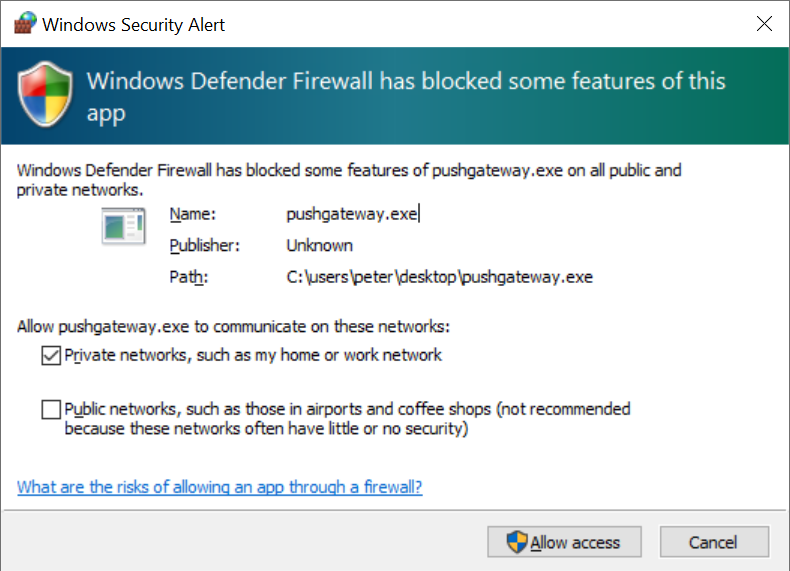
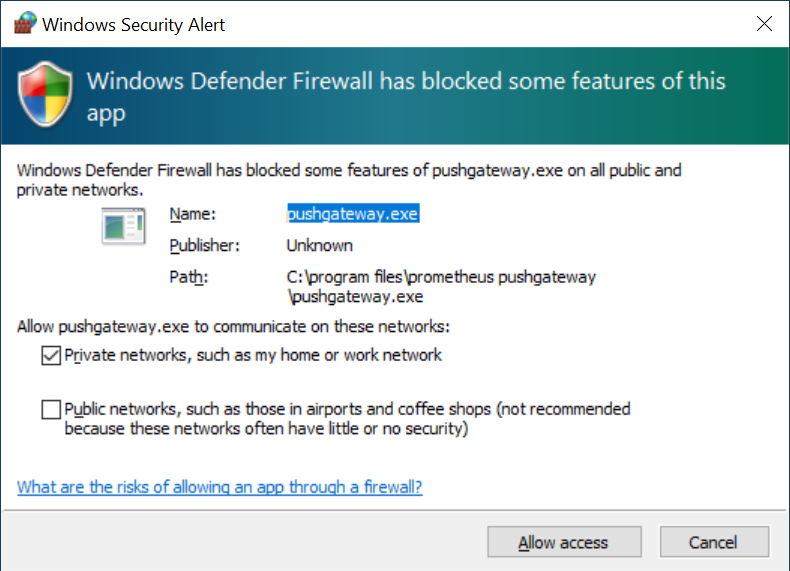
added: batch job example

diff --git a/readme.md b/readme.md
@@ -36,26 +36,82 @@
     | http_request_duration_seconds | histogram |
     | http_request_duration_seconds_created | gauge |
    
-3. Run the OpenTelemetry Collector with the `otel-config_plumber.yml`
+3. Run the OpenTelemetry Collector with the `otel-config_plumber.yaml`
    ```
    ./otelcol-contrib.exe --config=file:'D:/OpenTelemetry/otel-config_plumber.yml'
    ```
    ![](images/otelcol-contrib.png)
 
-# Batch Instrumentation
+# Batch
 
-1. Download and extract `pushgateway` from https://github.com/prometheus/pushgateway/releases
-2. Run `pushgateway.exe` in a terminal.  Optionally, create this as a Windows service to run in the background.  You may need to allow this over the firewall.
+1. Download and extract `pushgateway` from https://github.com/prometheus/pushgateway/releases (`C:\Program Files\Prometheus Pushgateway` in this example)
+2. Run `pushgateway.exe` in a terminal. You may need to allow this over the firewall.
    ![](images/pushgateway.png)
+
+   ```PowerShell
+   $ProgressPreference = "SilentlyContinue"
+   $apppath = "C:\Program Files\Prometheus Pushgateway"
+   $version = "1.5.1"
+   $gateway = "https://github.com/prometheus/pushgateway/releases/download/v${version}/pushgateway-${version}.windows-amd64.tar.gz"
+
+   mkdir $apppath
+   cd $apppath
+   Invoke-WebRequest -Uri $gateway -OutFile $apppath\pushgateway.tar.gz
+   tar -xzf .\pushgateway.tar.gz --strip-components 1
+
+   .\pushgateway.exe
+   ```
 
 3. Run your batch job
    ```
-   Rscript ./batch/batchjob.R
+   Rscript ./batchjob.R
    ```
 4. Go to http://localhost:9091/metrics to see the metrics
 
-5. Run the OpenTelemetry Collector with the `otel-config_batch.yml`
+5. Run the OpenTelemetry Collector with the `otel-config_batch.yaml` file.
    ```
    ./otelcol-contrib.exe --config=file:'D:/OpenTelemetry/otel-config_batch.yml'
    ```
 
+# Shiny
+
+TBD
+
+# OpenTelemetry Collector as a Service
+
+## Windows (Manual)
+
+1. Download and extract the OpenTelemetry Collector somewhere (`C:\Program Files\OpenTelemetry` in this example)
+2. Get an OpenTelemetry configuration file and take note of the path and file name (`C:\Program Files\OpenTelemetry\otel-config.yaml` in this example)
+3. Create a Windows Service using PowerShell as an Administrator. You'll need to enter your service account credentials.  In this example, the current logged in user is used.
+   ```PowerShell
+   New-Service -Name "otelcol-contrib" -BinaryPathName "${apppath}\otelcol-contrib.exe --config=file:`"${apppath}\otel-config.yaml`"" -DisplayName "OpenTelemetry Collector (contrib)" -StartupType Manual -Description "OpenTelemetry Collector v${version}" -Credential "$Env:UserDomain\$Env:UserName"
+   ```
+   ![](images/otelcol-contrib_service1.png)
+   ![](images/otelcol-contrib_service2.png)
+4. Start the service with `Start-Service -Name "otelcol-contrib"`
+   ![](images/otelcol-contrib_service3.png)
+   ![](images/otelcol-contrib_service4.png)
+   ![](images/otelcol-contrib_service5.png)
+5. (optional) Stop the service with `Stop-Service -Name "otelcol-contrib"`
+6. (optional) Delete the service with `Remove-Service -Name "otelcol-contrib"` or for older version of PowerShell:
+   ```PowerShell
+   (Get-WmiObject -Class Win32_Service -Filter "Name='otelcol-contrib'").delete()
+   ```
+
+## Windows (Automated)
+
+```PowerShell
+$ProgressPreference = "SilentlyContinue"
+$apppath = "C:\Program Files\OpenTelemetry"
+$version = "0.77.0"
+$otelcol = "https://github.com/open-telemetry/opentelemetry-collector-releases/releases/download/v${version}/otelcol-contrib_${version}_windows_amd64.tar.gz"
+
+mkdir $apppath
+cd $apppath
+Invoke-WebRequest -Uri $otelcol -OutFile $apppath\otelcol-contrib.tar.gz
+tar -xzf .\otelcol-contrib.tar.gz
+New-Item otel-config.yaml
+
+New-Service -Name "otelcol-contrib" -BinaryPathName "${apppath}\otelcol-contrib.exe --config=file:`"${apppath}\otel-config.yaml`"" -DisplayName "OpenTelemetry Collector (contrib)" -StartupType Manual -Description "OpenTelemetry Collector v${version}" -Credential "$Env:UserDomain\$Env:UserName"
+```
